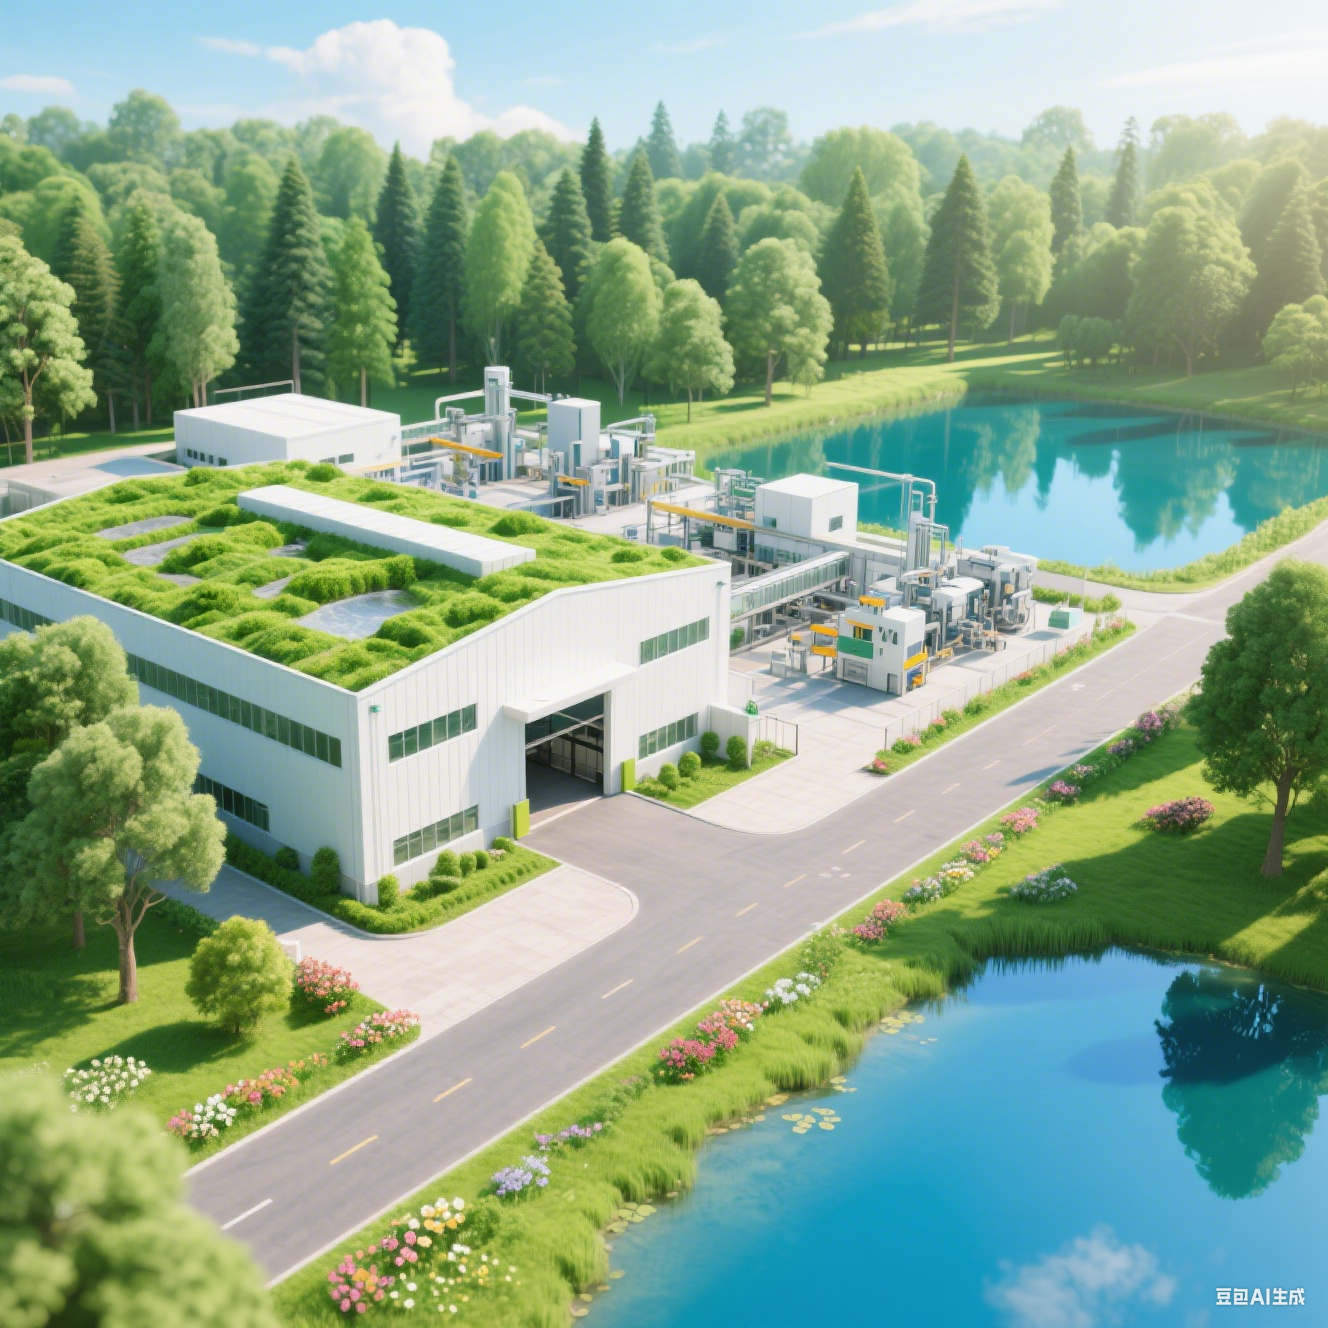
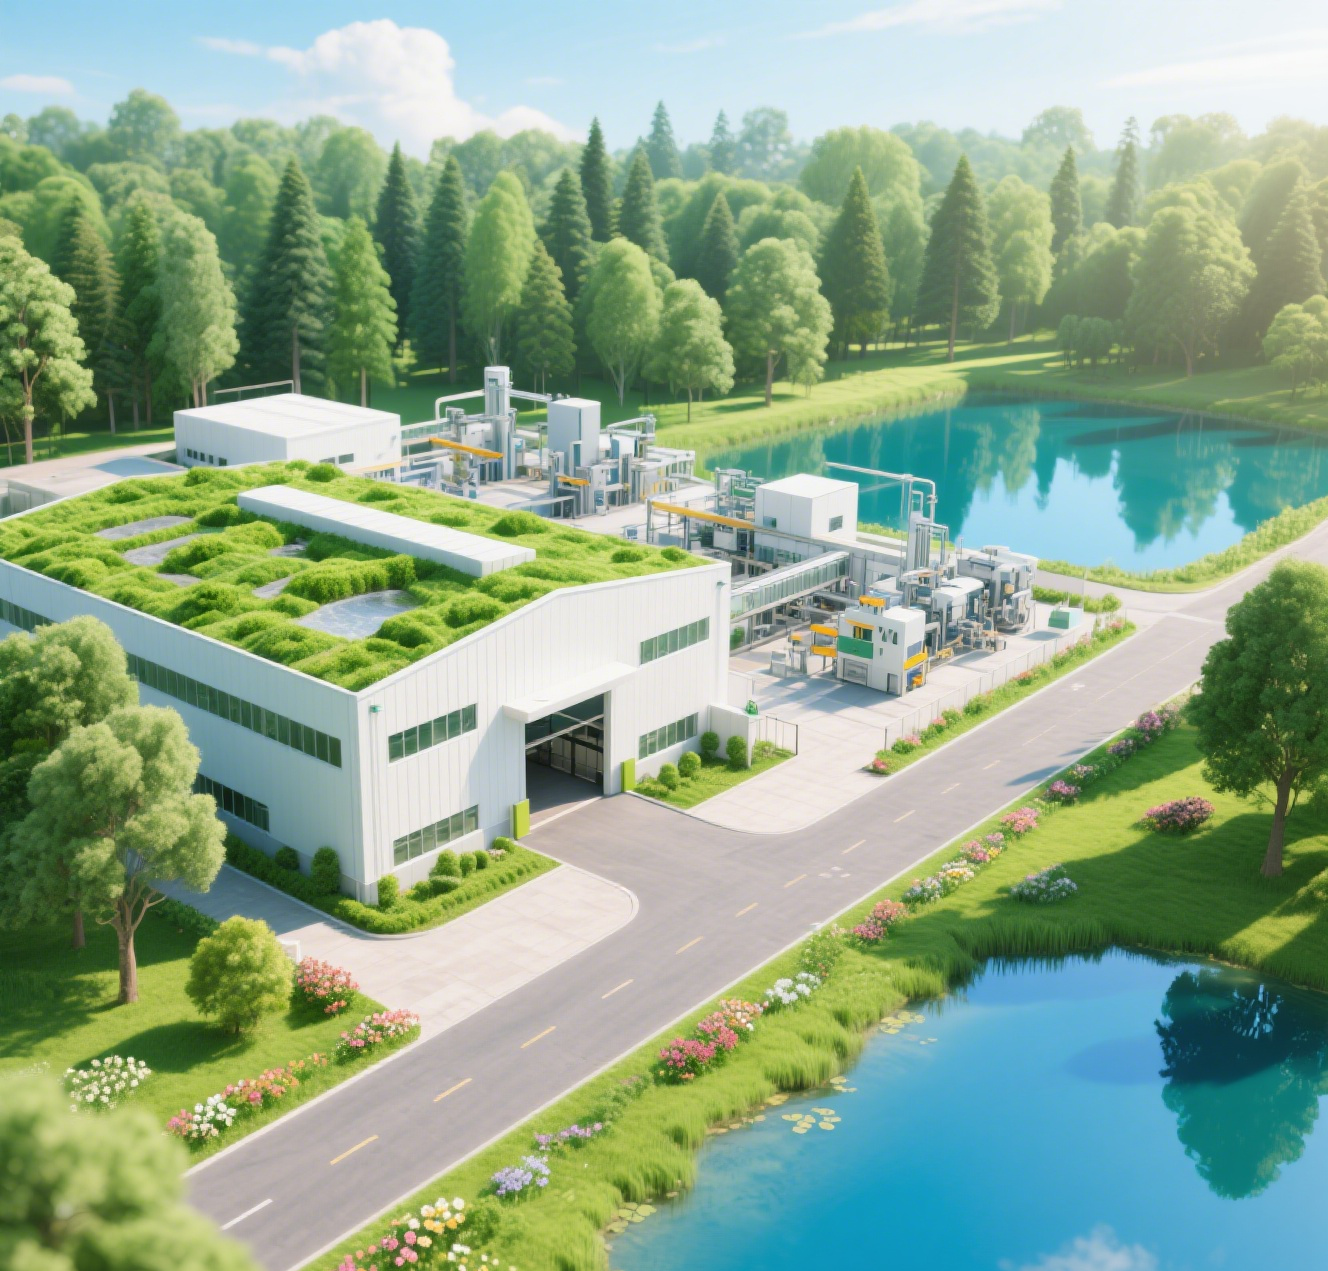
fix about us

diff --git a/en/about.html b/en/about.html
@@ -28,7 +28,7 @@
     <!-- About Us -->
     <section id="about">
         <h2 data-lang-key="about-h2">About Us</h2>
-        <img src="images/about_us.png" alt="about us">
+        <img src="../images/about_us.png" alt="about us">
         <p>Over 20 years of professional R & D and production experience in magnetic components, serving over 300 customers (Huawei, BYD, ZTE, etc.).</p>
         <p>Mission: To become an innovative and healthy technology company for sustainable development in the industry.</p>
         <p>Vision: Promote magnetic new energy and advocate low - carbon travel.</p>
